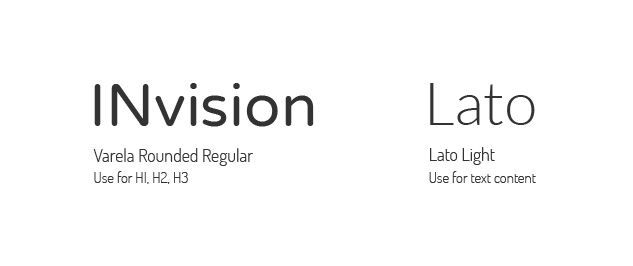
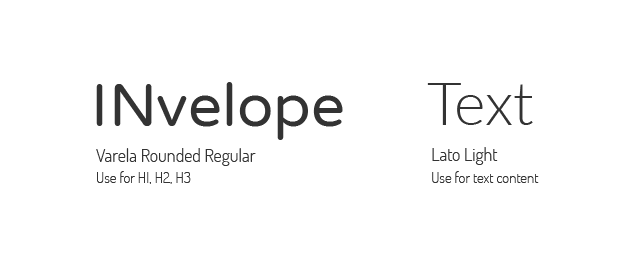
10th commit

diff --git a/case-studies/invelope.html b/case-studies/invelope.html
@@ -61,7 +61,7 @@
         <div class="container-fluid">
             <div class="row">
                 <div class="col-xs-12">
-                    <h2>Redesigning the digital notebook:<br>A buzzworthy way to create, share, and collaborate</h2>
+                    <h2> Redesigning ubiquitous capture <br> so that organization and collaboration are always part of the creative process. </h2>
                 </div>
             </div>
             <div class="row">
@@ -71,7 +71,7 @@
             </div>
             <div class="row">
                 <div class="col-xs-12">
-                    <p>The world of productivity services is full of competitors. From Evernote to Microsoft OneNote, each digital notetaking and syncing service delivers its own variation of convenience and productivity to keep content stored and accessible at any time. Despite this variety, frustrations remain over organization: some tools don't consistently save notes into the correct folders; some possess inadequate search capabilities; others don't provide controls over how content can be saved or displayed.</p>
+                    <p>In the crowded “cloud storage” market sector users need more than just a simple resource where they can save their data.  Frustrations remain over organization: some tools don't consistently save notes into the correct folders; some possess inadequate search capabilities; others don't provide controls over how content can be saved or displayed. In addition, users also need the utility to share and collaborate across networks coupled with an ability to edit and notate their files easily.</p>
                 </div>
             </div>
         </div>
@@ -83,7 +83,7 @@
             </div>
             <div class="row">
                 <div class="col-xs-12">
-                    <p>Introducing INvelope, a Software-as-a-Service web application providing effortless content management to solve the problem of digital disorganization. INvelope combines the ease of bookmarking content in a browser, the flexibility of formatting notes in desktop apps, and the powerful searchability of cloud storage tools, within one intuitive interface. Organization is no longer a chore with INvelope's predetermined item categories built into the upload process. Whether it's capturing thoughts during an office meeting or sharing photos of a recent trip with friends, INvelope makes it easy to add anything in seconds, keep things organized, and access content quickly and efficiently.</p>
+                    <p>Introducing INvelope, a Software-as-a-Service web application providing effortless content management with seamless collaboration.  It solves the problem of digital disorganization and managing group project assets. INvelope combines the ease of bookmarking content in a browser, the flexibility of formatting notes in desktop apps, and the powerful searchability of cloud storage tools to make working on projects with teams or individuals simple but coupling easy editing, commenting and notation functionality to their data. Organization is no longer a chore with INvelope's predetermined item categories built into the upload process. Whether it's capturing thoughts during an office meeting or sharing photos of a recent trip with friends, INvelope makes it easy to add anything in seconds, keep things organized and share with others quickly and efficiently.</p>
                     <img src="/images/invelope/INvelopeComputer.lapdesk.jpg" class="center-block" style="width:70%"/>
                 </div>
             </div>
@@ -117,7 +117,7 @@
                         <li>What tools people used to save online content and take notes and what they liked or disliked about those tools; and</li>
                         <li>How people shared resources with colleages at work.</li>
                     </ul>
-                    <p>Results were gathered from 7 respondents across social media from around the world.</p>
+                    <p>Results were gathered from 10 respondents across social media within the United States.</p>
                 </div>
             </div>
             <div class="row">
@@ -130,13 +130,14 @@
             </div>
             <div class="row">
                 <div class="col-xs-12">
-                    <p>I <a href="https://drive.google.com/open?id=1mgn0gn0fFpElncORTC1LfalAKhNthQPHPaNDN5jwRkc" target="_blank">summarized</a> the data and identified common user motivations, frustrations, and considerations, including:</p>
+                    <p>I <a href="https://drive.google.com/open?id=1wqcyNG1GABPU0OofVJgXYwuxBw8IRndd" target="_blank">summarized</a> the data and identified common user motivations, frustrations, and considerations, including:</p>
                     <ul>
                         <li>Bookmarking and downloading were the most common methods used to save interesting online content;</li>
-                        <li>Respondents liked bookmarking tools that were easy to use and easily accessible but were frustrated by difficulties with searching for items and resulting clutter; and</li>
-                        <li>The majority write notes to themselves using smartphone applications for their simplicity but disliked how ease of use was sometimes gained by sacrificing organizational capabilities, such as not being able to format text.</li>
+                        <li> Collaboration was the number one priority and a major pain point among respondents</li>
+                        <li>Respondents liked bookmarking tools that were easy to use and easily accessible across platforms but were frustrated with searching for items </li>
+                        <li>The majority write notes to themselves using smartphone applications for their simplicity but disliked how they sacrificing organizational capabilities and not being able to format text.</li>
                     </ul>
-                    <p>From these results, I was beginning to see that users wanted a productivity tool that could streamline the organizational decision-making process but still provide options for more specific categorization.</p>
+                    <p>From these results, I was beginning to see that users wanted a productivity tool that could streamline the organizational decision-making process and facilate collaboration.</p>
                 </div>
             </div>
         </div>
@@ -167,7 +168,7 @@
             </div>
             <div class="row">
                 <div class="col-xs-12">
-                    <p>The personas established strong preferences for being able to store content in one location, organized within a clear hierarchy that could be easily searched and shared.</p>
+                    <p>The personas established strong preferences for being able to store content in one location, organized within a clear hierarchy that could be easily searched and  above all share easily with both friends, family and work colleagues.</p>
                 </div>
             </div>
         </div>
@@ -182,7 +183,7 @@
             </div>
             <div class="row">
                 <div class="col-xs-12">
-                    <p>Given the number of existing productivity services, I needed to take a closer look at potential competitors to identify how our product could provide the most value to our users. Instead of evaluating other notetaking apps, I focused my analysis on cloud storage heavyweights like Dropbox and Google Drive to perform a basic <a href="https://drive.google.com/open?id=0B6YKt6M3ANIxUmhNLUN4dzlBUDg" target="_blank">SWOT analysis</a>. Since users' strongest desires were for better organization, examining the successes and faults of services built to house and handle vast quantities of data revealed insights and opportunities beyond just how to build a better interface for typing and storing notes.</p>
+                    <p>Given the number of existing productivity services, I needed to take a closer look at potential competitors to identify how our product could provide the most value to our users. Instead of evaluating other notetaking apps, I focused my analysis on cloud storage heavyweights like Dropbox and Google Drive to perform a basic <a href="https://drive.google.com/open?id=1nIgdi0DqKb9LShdgllcH-j1uTGczEqgS" target="_blank">SWOT analysis</a>. Since users' strongest desires were for collaboation and better organization, examining the successes and faults of services built to house and handle vast quantities of data revealed insights and opportunities beyond just how to build a better interface for typing and storing notes.</p>
                 </div>
             </div>
             <div class="row">
@@ -190,7 +191,7 @@
                     <img src="/images/invelope/dropbox-logo.png" class="center-block" style="width:70%"/>
                 </div>
                 <div class="col-md-4">
-                    <img src="/images/invelope/box.png" class="center-block" style="width:30%"/>
+                    <img src="/images/invelope/sugarsync-logo.png" class="center-block" style="width:70%"/>
                 </div>
                 <div class="col-md-4">
                     <img src="/images/invelope/googledrive-logo.png" class="center-block" style="width:80%"/>
@@ -223,8 +224,27 @@
             </div>
             <div class="row">
                 <div class="col-xs-12">
-                    <p>I converted the users stories into <a href="https://drive.google.com/open?id=0B6YKt6M3ANIxV3lZdS1QcGtWM1U" target="_blank">user flows</a> to visualize how the user would accomplish those stories with my product. Separate flows demonstrate how new and returning users would be welcomed into the platform. A combined flow for tasks within a dashboard took several iterations as I mapped out the smoothest paths for adding content, searching for specific items, and managing accounts. To solidify our navigation structure and content hierarchy, I drew up a <a href="https://drive.google.com/open?id=0B57iLHS7RoSgVjREOG45MklmUjg" target="_blank">sitemap</a> before diving into the design of the actual product.</p>
-                    <img src="/images/invelope/INvelope-flow.png" class="center-block " style="width:80%"/>
+                    <p>I converted the users stories into <a href="https://drive.google.com/open?id=0B6YKt6M3ANIxV3lZdS1QcGtWM1U" target="_blank">user flows</a> to visualize how the user would accomplish those stories with my product. Separate flows demonstrate how new and returning users would be welcomed into the platform. A combined flow for tasks within a dashboard took several iterations as I mapped out the smoothest paths for adding content, searching for specific items, and managing accounts. To solidify our navigation structure and content hierarchy, I drew up a <a href="https://drive.google.com/open?id=0B6YKt6M3ANIxWXlkZ1FuMjNmamM" target="_blank">sitemap</a> before diving into the design of the actual product.</p>
+                    
+                    <div class="row">
+                <div class="col-lg-12 text-center">
+                    <a
+                    href="https://drive.google.com/open?id=0B6YKt6M3ANIxV3lZdS1QcGtWM1U" target="_blank"><img src="/images/invelope/INvelope-flow.png" class="mobile-center" style="width:40%"/></a>
+                    
+                       <a
+                    href="https://drive.google.com/open?id=1EUxnlEFyUEb4VwqR1tp5iWb9jT4FzMwk" target="_blank">
+                    <img src="/images/invelope/INvelope-Shared.png" class="mobile-center" style="width:40%"/>
+                    </a>
+                </div>
+            </div>   
+             
+                    
+                    
+                    
+                    
+
+                    
+                    
                 </div>
             </div>    
         </div>            
@@ -255,7 +275,7 @@
             </div>
             <div class="row">
                 <div class="col-xs-12">
-                    <p>I paired Rubik and Quattrocento together to reflect our product's professionalism, trustworthiness, and slight playfulness. Rubik's rounded corners and geometric structure complements the wide, open letterforms of Quattrocento, a classic, strong typeface.</p>
+                    <p>I paired Varela Rounded Regular with Lato Light to reflect professionalism with personality. Varela's rounded corners and rounded stance held a softer, trustworthy, and modern look while Lato Light with it's thin sharp edges gave a easily readable and crisp typeface to the brand.</p>
                     <img src="/images/invelope/INvelope-Font.png" class="center-block " style="width:80%"/>
                     
                     
@@ -278,10 +298,9 @@
             </div>
             <div class="row">
                 <div class="col-xs-12">
-                    <p>I began my brainstorm with a word-association exercise surrounding the idea of valuable items in a safe space. This eventually lead me to two brand concepts: Trove, defined as a store of valuable or delightful things, relates to how users would collect and save treasured content in one place. 
-                        
-                        xxxxAlternatively, INvelope, defined as a place in which people are busily occupied, relates to how our product is meant to be a place of activity, encouraging personal notetaking and collecting, and inviting others to collaborate in the shared space. Ultimately, I chose "Hive" for its more active connotations and its element of fun.</p>
-                    <p>My sketching process produced numerous logo ideas for various brand names. For Hive, I started with a box to convey our product's storage function. I played around with the concept of a beehive before settling on my final design: stacked boxes reminiscent of the shape of a capital "H." This communicated our product's key message and personalities: simple, professional, and organized.</p>
+                    <p>I began my brainstorm with a word-association exercise around the idea of how people share and store information. I asked, what object is used for both sharing ideas and storing them? I arrived at the envelope. I noted how envelopes hold both personal letters and bank statements. I also noted how even today yellow envelopes are still used in offices to share documents.  With this association, I explored the archetypical landscape of a work desk and noted the IN and OUT boxes and adapted this in the capital IN  of the logo.  Lastly, I wanted to suggest movement in the logo so I italicized the font slightly to give this effect. With this, I felt that our product's key message and personalities of easy, professional, and organized were clearly conveyed.
+                        </p>
+                  
                 </div>
             </div>
             <div class="row">
@@ -302,7 +321,7 @@
             </div>
             <div class="row">
                 <div class="col-xs-12">
-                    <p>INvelope also needed a color palette to encourage feelings of active engagement within a soothing environment. I chose a complementary color scheme composed of shades of teal to reflect dependability and security, a light blue to represent friendliness, and a contrasting orange to depict inviting, vibrant energy.</p>
+                    <p>INvelope also needed a color palette to encourage feelings of activity and efficiency.  Researching postal and business color schemes it became clear that blue was foundational in the color scheme.  I chose two blues a dark gray and navy blue to anchor my array. I chose a complementary color scheme composed of teal to reflect dependability and security, sky blue to represent friendliness and a contrasting yellow orange to depict vibrate energy and echo the color of the universal yellow envelopes found in offices everywhere.</p>
                     <img src="/images/invelope/INvelope- Color.png" class="center-block " style="width:80%"/>
                 </div>
             </div>    
@@ -361,12 +380,13 @@
             </div>
             <div class="row">
                 <div class="col-xs-12">
-                    <p>Using my sitemap and a list of <a href="https://drive.google.com/open?id=18hHShXHXI44WPjTrhjo88uWfL4ScSJu2MVUhxZKppVfWiiVfUvHH-gUNLGFydsmvmouNmLAOuk6EMSw-" target="_blank">project requirements</a> as reference points, I built wireframes in Adobe Illustrator for our MVP. I then wanted to test if the landing page design adequately conveyed our value proposition, along with how users would accomplish the primary tasks identified in our user flows. I set up 5-minute tests with random participants through UserTesting.com and recruited survey respondents for in-person usability tests. In-person participants were guided through an InVision prototype using a <a href="https://docs.google.com/document/d/1kfZ2Cyvu7RT8jkW_QXwVzAAt-1IT2TkvKa9xvjnyaN8/edit?usp=sharing" target="_blank">test script</a>.</p>
-                    <p><a href="https://docs.google.com/document/d/11wXVqyB5LEmzZA9nLcs_aH9mOfcVP_bhHe9XVN9HgEI/edit?usp=sharing" target="_blank">Feedback</a> generated from the tests of my interactive wireframes informed my top action items, including:</p>
+                    <p>Using my sitemap and a list of <a href="https://drive.google.com/open?id=1Fx6X0RxmbRJpKj0cVqintweuPJ_R-DHw" target="_blank">project requirements</a> as reference points, I built wireframes in Adobe Illustrator for our MVP. I then wanted to test if the landing page design adequately conveyed our value proposition, along with how users would accomplish the primary tasks identified in our user flows. I set up 5-minute tests with random participants through UserTesting.com and recruited survey respondents for in-person usability tests. In-person participants were guided through an InVision prototype using a <a href="https://drive.google.com/open?id=16JjDkhhqyGq3dxMKCnGTIBwJWnL-KPvo" target="_blank">test script</a>.</p>
+                    <p><a href="https://drive.google.com/open?id=1KgExkZ_BlcAPTa6CYvoIJHO0RwTLqyCK" target="_blank">Feedback</a> generated from the tests of my interactive wireframes informed my top action items, including:</p>
                     <ul>
-                        <li>Revise copy in pricing section and account settings to clarify tier benefits;</li>
-                        <li>Add text or visual elements to provide users with more system feedback as they go about completing an activity (e.g. whether or not content is automatically saved); and</li>
-                        <li>Rethink position of global navigation bar to increase navigability and conform to standard design patterns for the location of account settings.</li>
+                        <li> Add a help button or tutorial during the onboarding to clarify how INvelope works.</li>
+                        <li> Collaboration fucntionaltiy need to be moved to the MVP</li>
+                        <li>Repostion settings acccess to common UI design pattern so user don't get lost.</li>
+                        <li>Change copy in pricing section to clarify how account settings will benefit users.</li>
                     </ul>
                 </div>
             </div>    

diff --git a/index.html b/index.html
@@ -73,10 +73,10 @@
                     <a href="case-studies/merrygo.html"><img src="images/thumb-merrygo.png" class="center-block" style="width:300px"/></a>
                 </div>
                 <div class="col-sm-6">
-                    <a href="case-studies/invelop.html"><h3 class="text-left">Merry Go</h3></a>
+                    <a href="case-studies/invelope.html"><h3 class="text-left">Merry Go</h3></a>
                     <p style="color:lightgray">UX Design</p>
                     <p>Merry Go is a mobile app that finds todays kid friendly event and venues. Allows the user to filter, search share events and connect with others attending the event through users posts and comments. </p>
-                    <a href="case-studies/invelop.html"><p class="project-link">View project &#8594;</p></a>
+                    <a href="case-studies/invelope.html"><p class="project-link">View project &#8594;</p></a>
                 </div>
             </div>
             <div class="row preview">
@@ -84,7 +84,7 @@
                     <a href="case-studies/invelope.html"><img src="images/thumbnail-INvision.png" class="center-block" style="width:300px"/></a>
                 </div>
                 <div class="col-sm-6">
-                    <a href="case-studies/invelop.html"><h3 class="text-left">INvelope</h3></a>
+                    <a href="case-studies/invelope.html"><h3 class="text-left">INvelope</h3></a>
                     <p style="color:lightgray">UX Design</p>
                     <p>INvelope is a Saas (software as a service) web application that provides users the ability to gather, organize and share their data (images, notes and links). The real benefit of INvelope lies in its focus on seamless collaboration and the ability to easily edit, comment or notate files individually or on a team.  </p>
                     <a href="case-studies/photofile.html"><p class="project-link">View project &#8594;</p></a>
